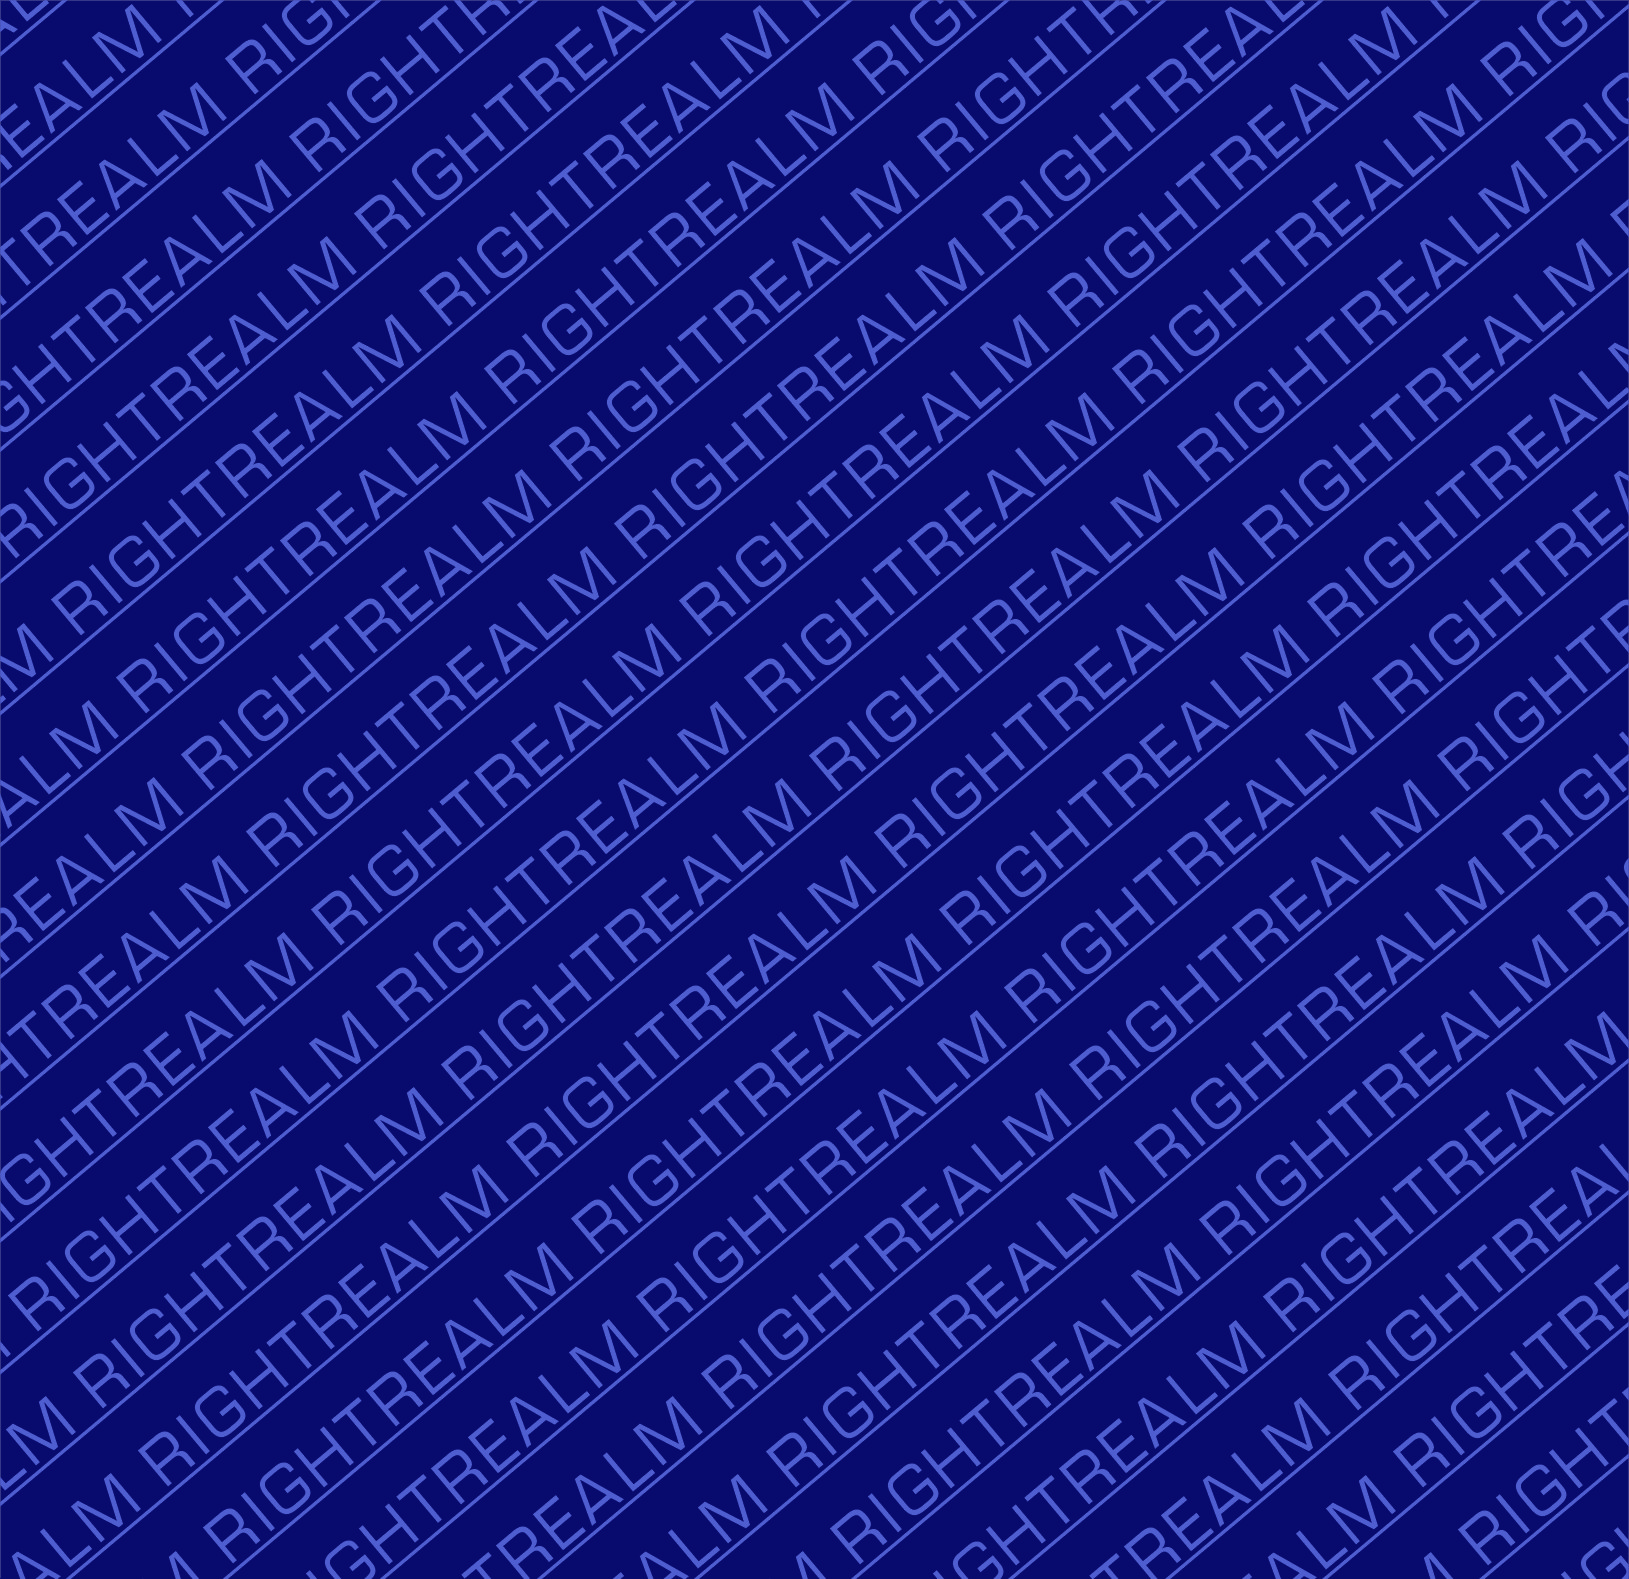
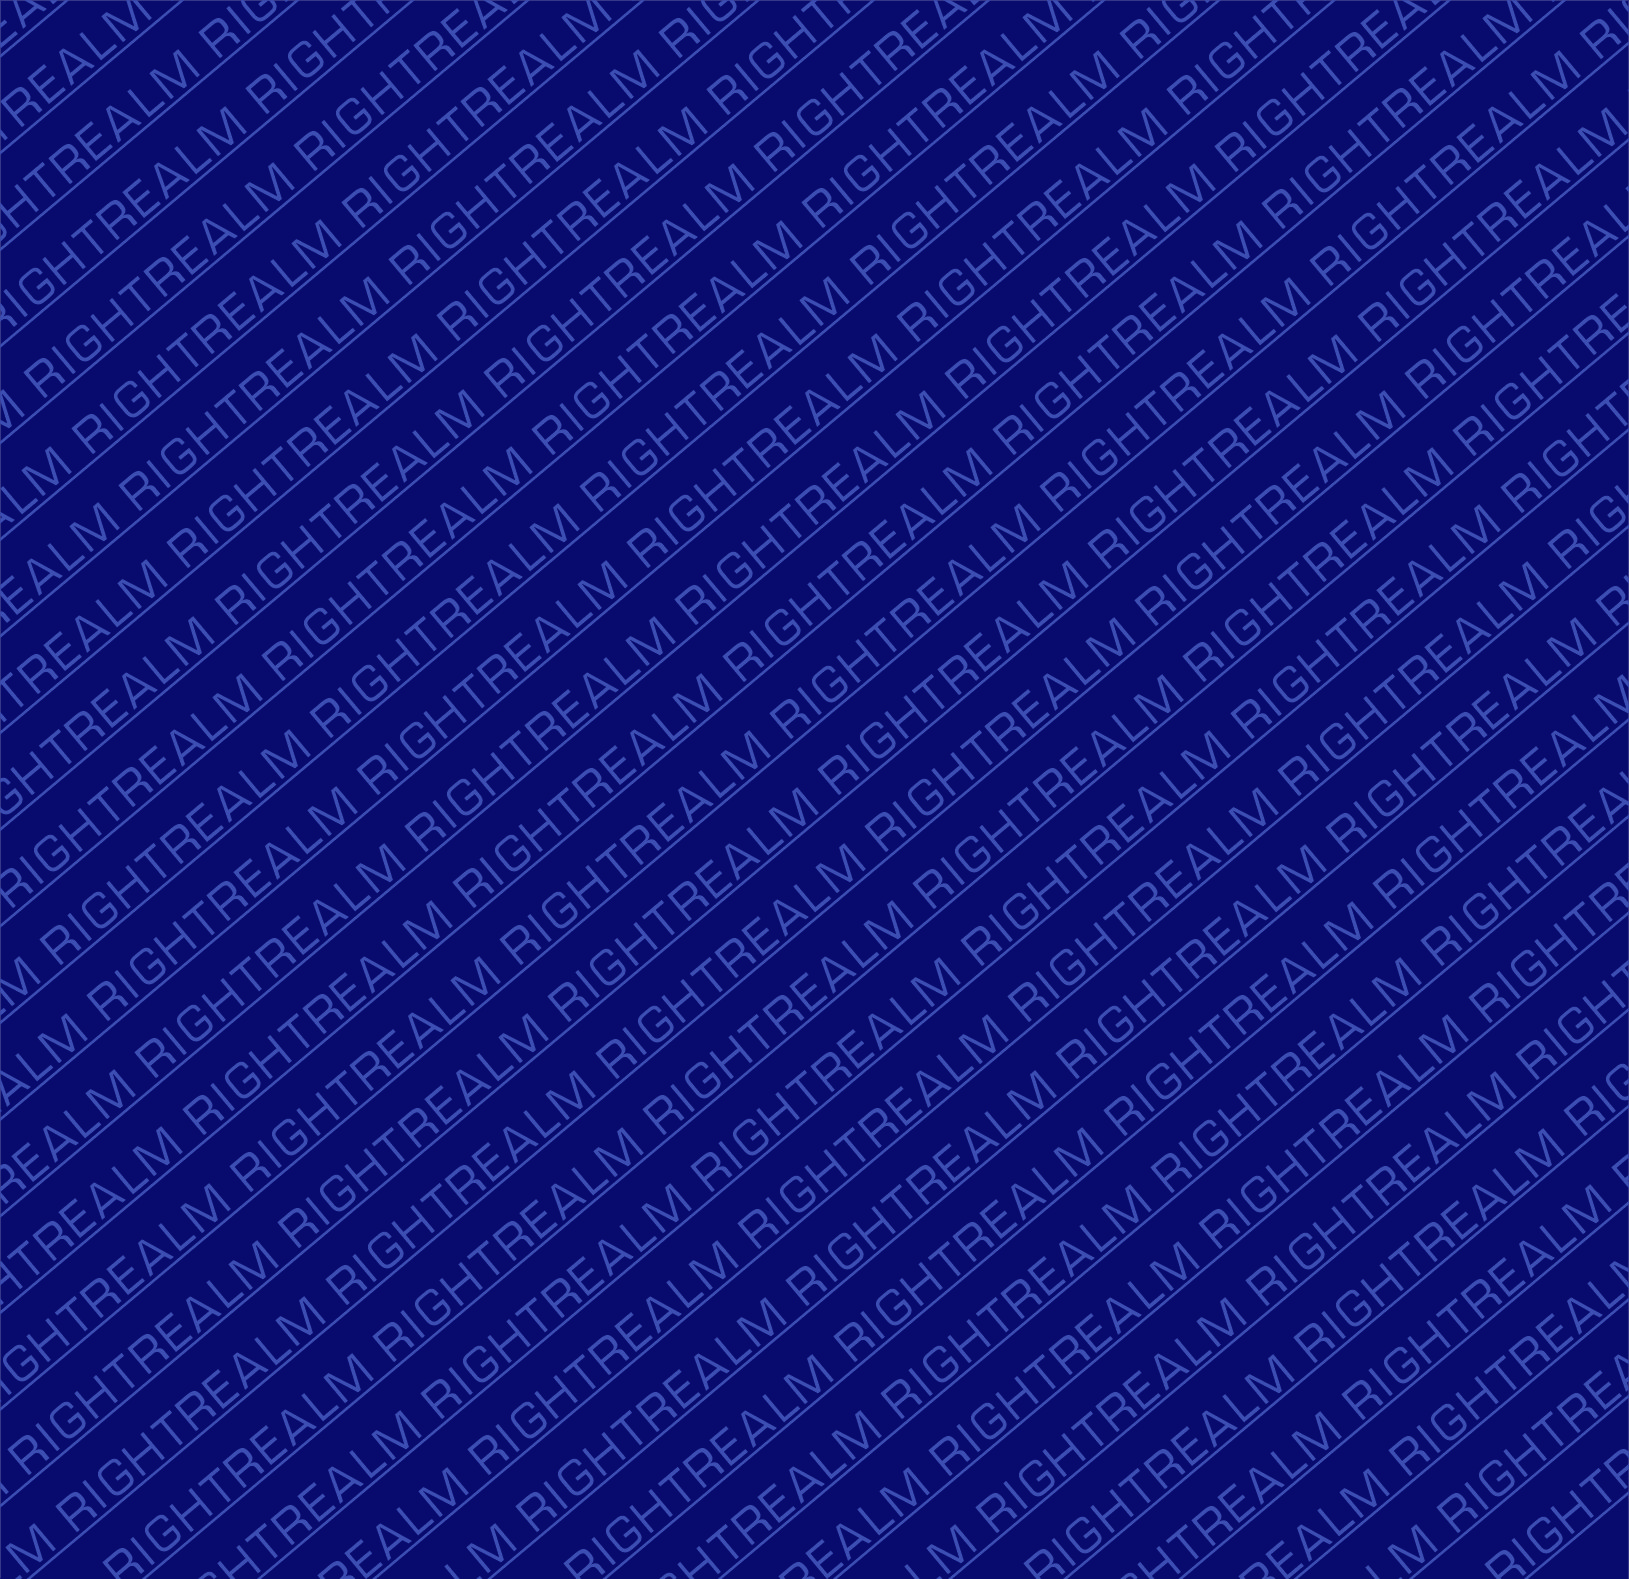
first commit

diff --git a/styles/Article.module.css b/styles/Article.module.css
@@ -54,7 +54,7 @@
     background-image: url("/bk1.jpg");
     background-repeat: no-repeat;
     background-position: center center;
-    background-size: 140%;
+    background-size: 130%;
     padding: .5rem;
     text-align: center;
     color: white;
